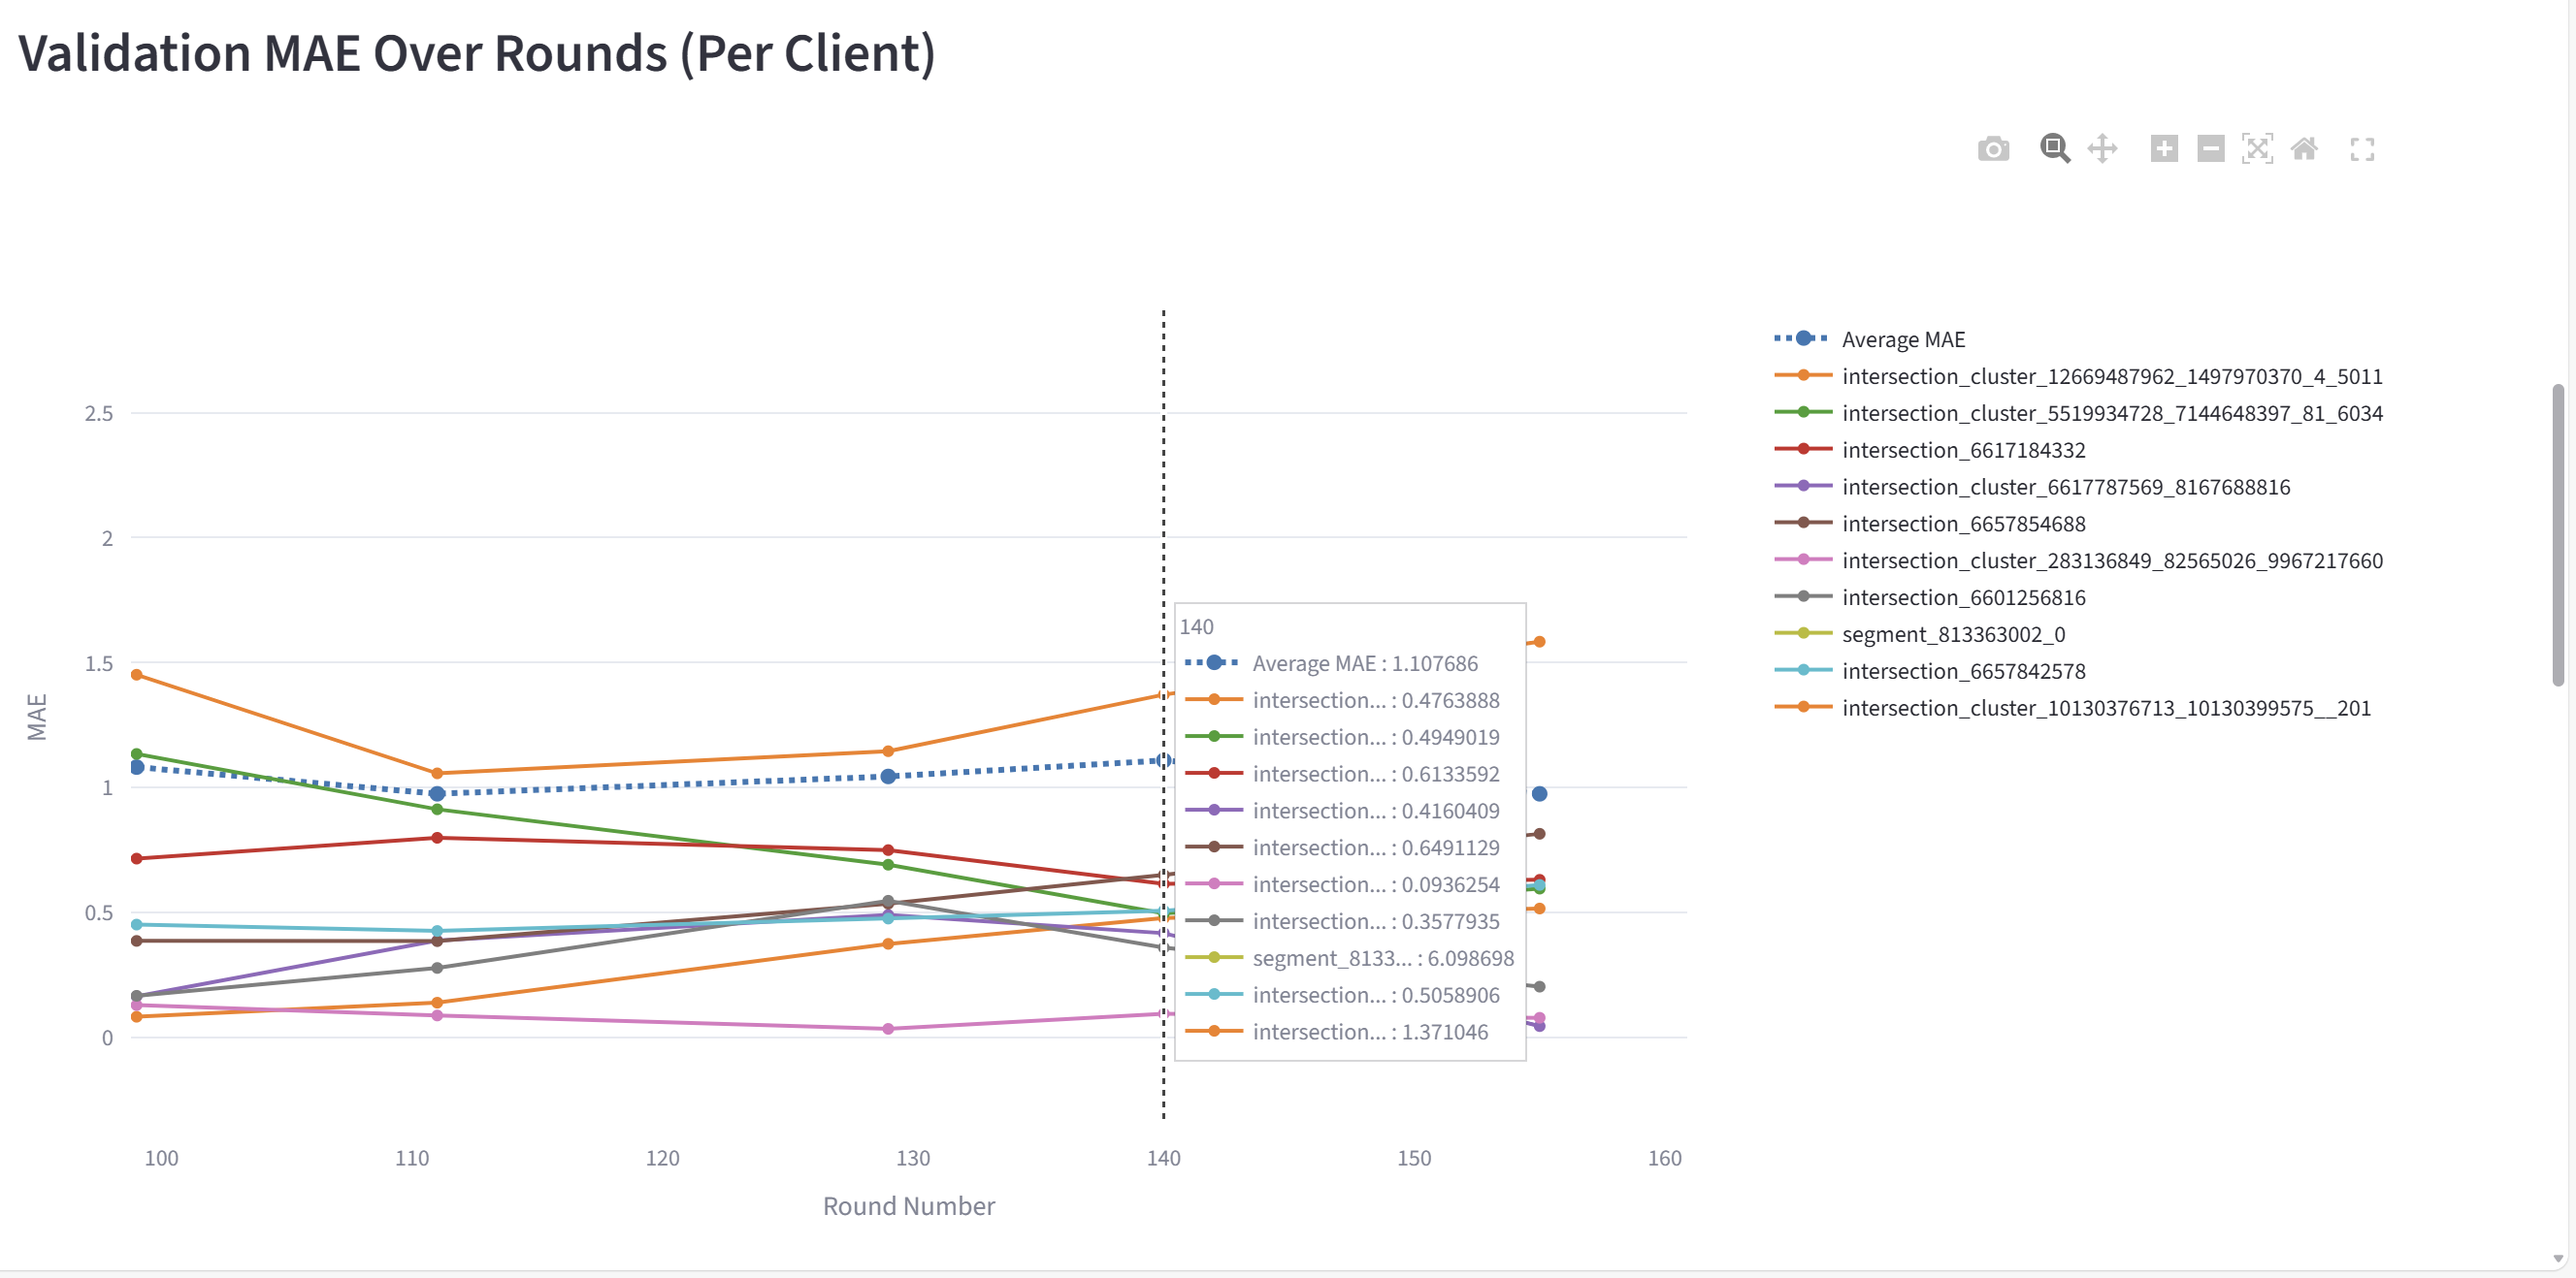
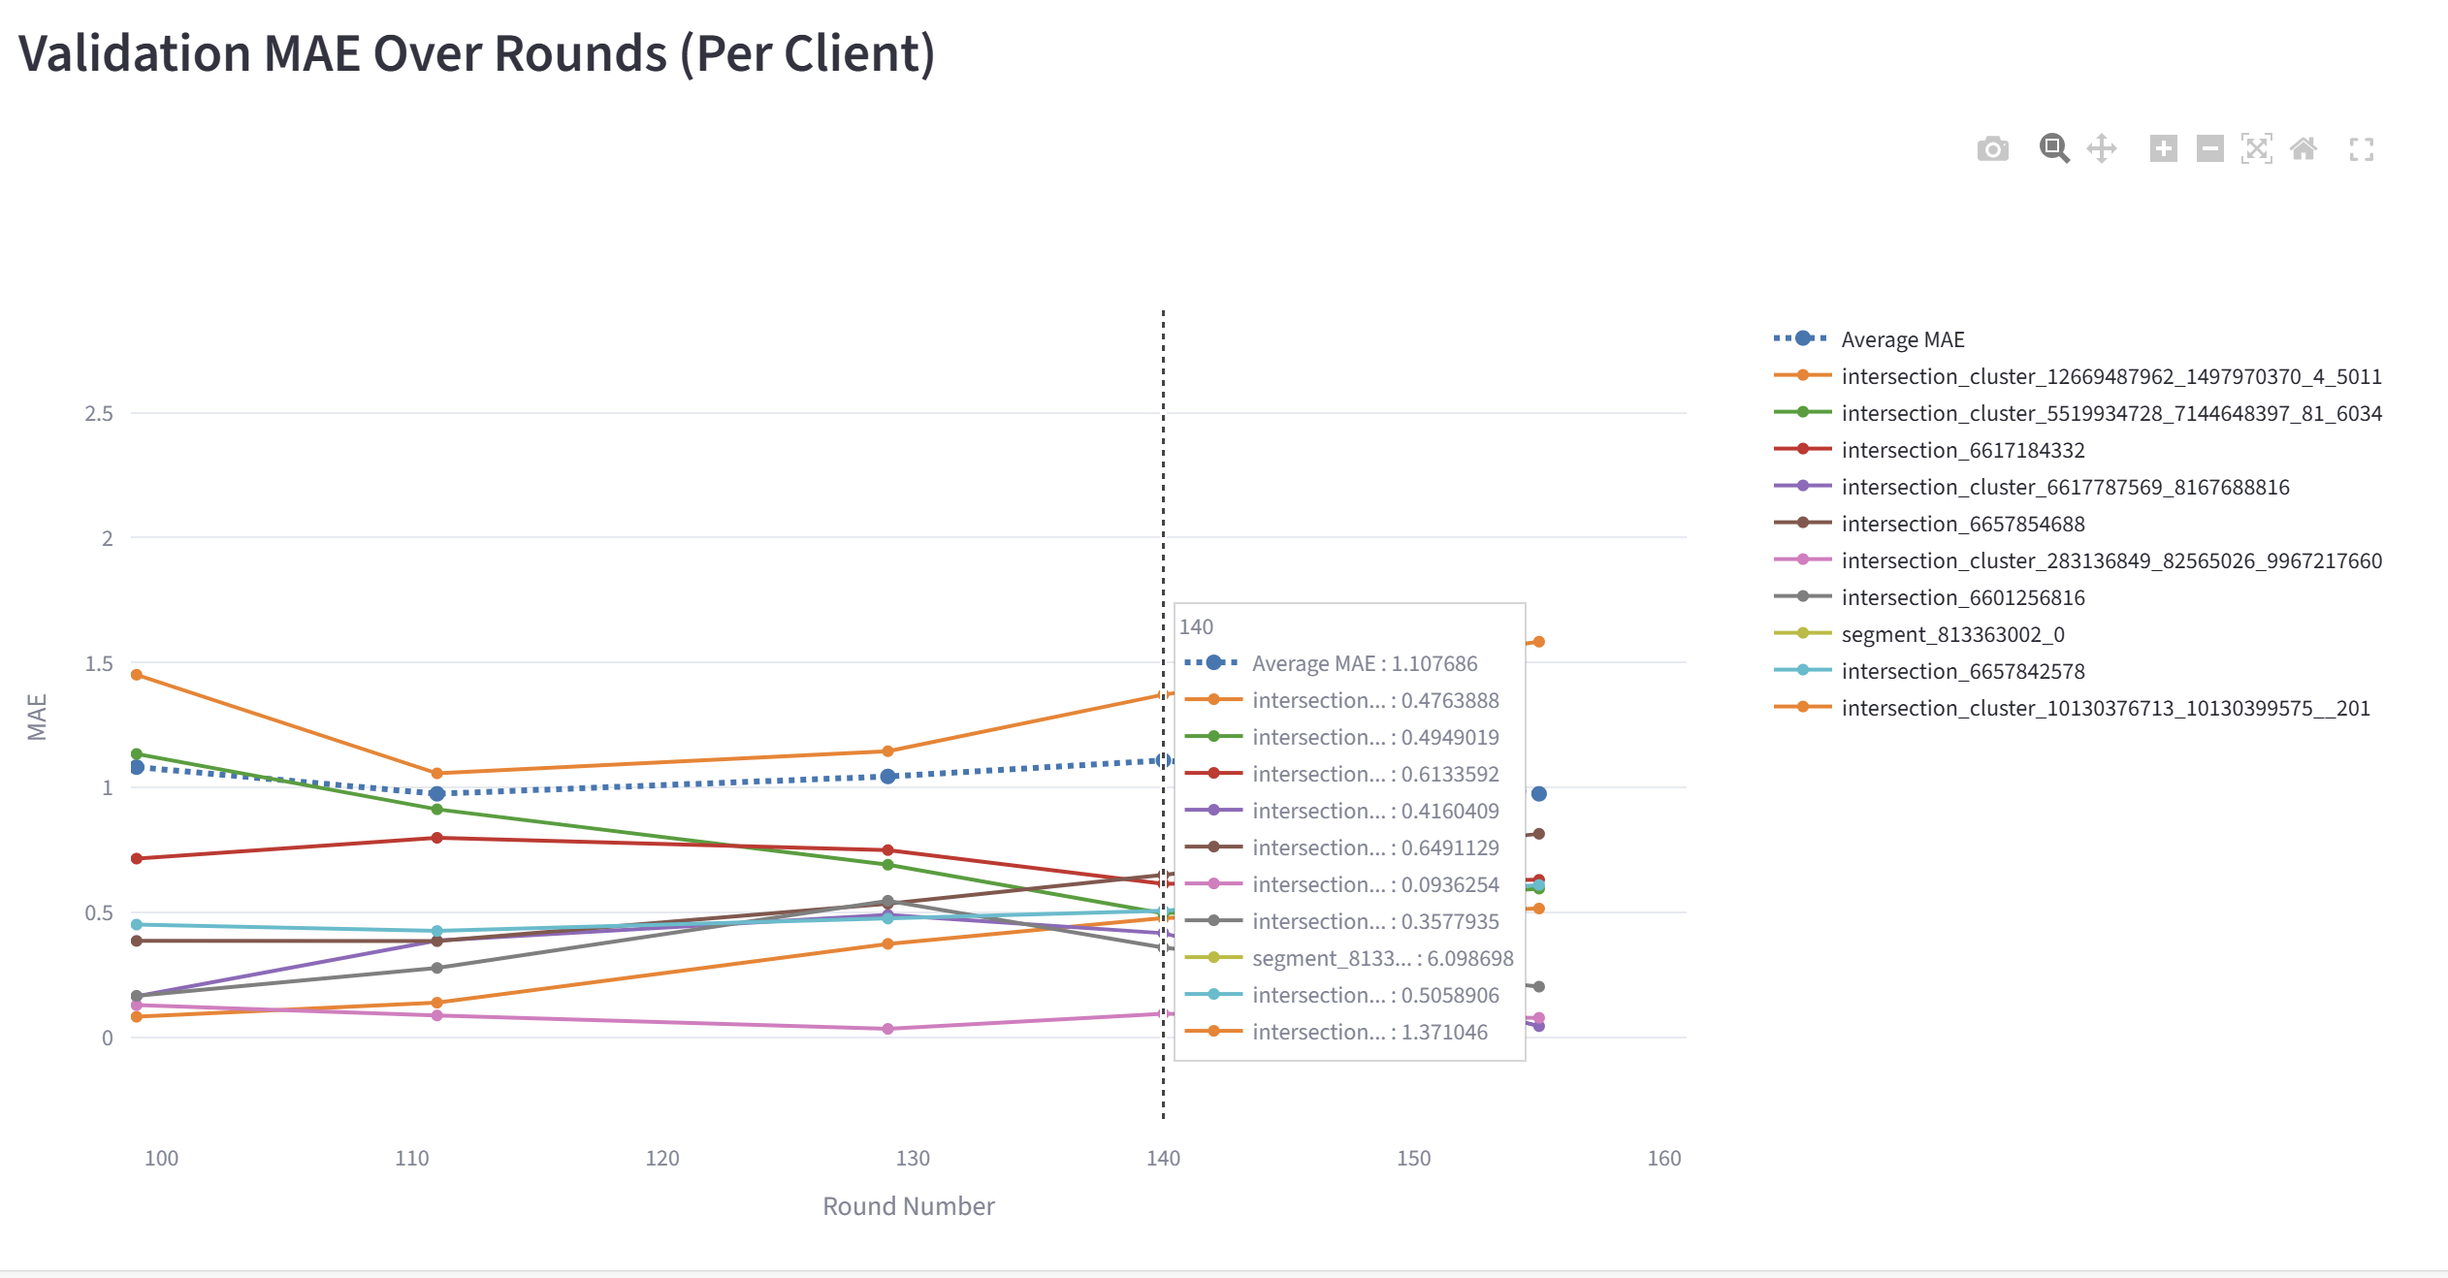
The final ver

diff --git a/sn-article.tex b/sn-article.tex
@@ -28,6 +28,7 @@
 
 \raggedbottom
 
+
 \begin{document}
 \title{Edge-based Traffic Prediction via Federated Learning}
 \author*[1]{\fnm{Hoang} \sur{Anh} - 202417093}
@@ -176,7 +177,7 @@ client updates, and generating the new global model for the next iteration.
 
 \begin{figure}[h!]
     \centering
-    \includegraphics[width=0.7\textwidth]{Figure/collaborative_training_process.png}
+    \includegraphics[width=1.0\textwidth]{Figure/collaborative_training_process.png}
     \caption{The system architecture and training process of federated learning.}
     \label{fig:fl_framework}
 \end{figure}
@@ -505,21 +506,6 @@ supports a \textbf{tiered management response}:
     activation, and demand-side management strategies for public transit
     corridors.
 \end{itemize}
-
-This tiered response is illustrated in Figure~\ref{fig:congestion_mgmt}, which
-depicts the information flow from edge-level LSTM predictions through congestion
-classification to ITS actuation.
-
-% Placeholder figure note:
-% \begin{figure}[h!]
-%     \centering
-%     \includegraphics[width=0.85\textwidth]{Figure/congestion_management_flow.png}
-%     \caption{Tiered congestion management flow: LSTM forecasts at each edge client
-%     are mapped to congestion levels and aggregated by the FL server into a global
-%     congestion map, which drives adaptive signal control, route advisories, and
-%     demand management.}
-%     \label{fig:congestion_mgmt}
-% \end{figure}
 
 % - - - - - - - - - - - - - - - - - - - - - - - - - - - - - -
 \subsubsection{Privacy Preservation in Congestion Management}
@@ -910,14 +896,14 @@ The efficiency of the Federated Averaging (FedAvg) algorithm \cite{mcmahan2017fe
 
 \begin{figure}[H]
   \centering
-  \includegraphics[width=0.85\textwidth]{Figure/metr-la-fl_convergence_rounds.png}
+  \includegraphics[width=1.0\textwidth]{Figure/metr-la-fl_convergence_rounds.png}
   \caption{FL convergence on METR-LA: 68.4\% MSE reduction over 50 rounds (initial loss 0.2401, final loss 0.0901).}
   \label{fig:convergence_metrla}
 \end{figure}
 
 \begin{figure}[H]
   \centering
-  \includegraphics[width=0.85\textwidth]{Figure/pems-bay-fl_convergence_rounds.png}
+  \includegraphics[width=1.0\textwidth]{Figure/pems-bay-fl_convergence_rounds.png}
   \caption{FL convergence on PeMS-BAY: 62.5\% MSE reduction over 50 rounds (initial loss 0.1989, final loss 0.0628).}
   \label{fig:convergence_pemsbay}
 \end{figure}
